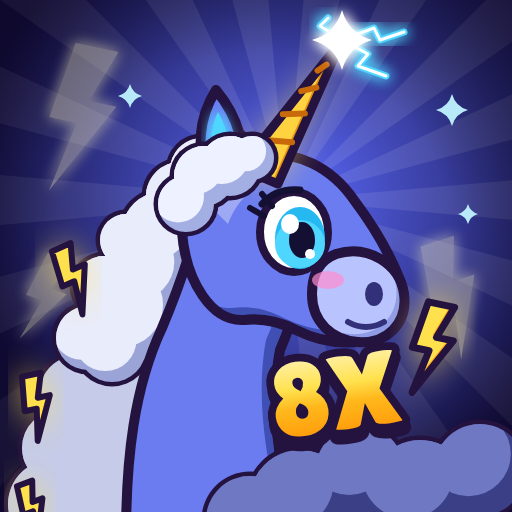
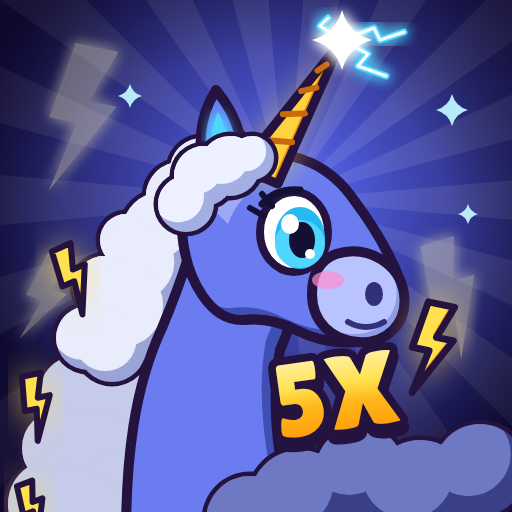
Make the Thunder Unicorn 5x speed instead of 8x
The icon now says 5X, the model's SpeedMultiplier attribute is 5, and both
READMEs say 5x.

Claude-Session: https://claude.ai/code/session_01X2onrxDbHnASbSZM1JFsPP

Changed region(s): [[0.5, 0.6875, 0.7188, 0.875], [0.6875, 0.6562, 0.7812, 0.8125], [0.7812, 0.8125, 0.8125, 0.8438]]

diff --git a/tools/animal-models/thunder_unicorn.py b/tools/animal-models/thunder_unicorn.py
@@ -9,7 +9,7 @@ trails, sparks and a shockwave under every hoof, and every few seconds while it 
 calls a lightning bolt down onto its horn.
 
 The RideAttachment on the RootPart is where the rider sits (on the saddle). The model's attributes Mount = true
-and SpeedMultiplier = 8 are for your mount script.
+and SpeedMultiplier = 5 are for your mount script.
 """
 
 import math
@@ -229,7 +229,7 @@ def thunder_unicorn():
        light("StormLight", SPARK, brightness=1.0, range_=18, pulse=1.8))
     pulse(a, "HoofFL", "HoofFR", "HoofBL", "HoofBR", seconds=0.8)
     pulse(a, "InnerEarL", "InnerEarR", seconds=1.2)
-    extras(a, attrs={"OrbitSpeed": 0.45, "Mount": True, "SpeedMultiplier": 8, "WalkSpeed": 16},
+    extras(a, attrs={"OrbitSpeed": 0.45, "Mount": True, "SpeedMultiplier": 5, "WalkSpeed": 16},
            highlight=(SPARK, C("#bff3ff"), 1.0, 0.6))
     return a
 

diff --git a/tools/icons/build_icons.py b/tools/icons/build_icons.py
@@ -498,7 +498,7 @@ def thunder_unicorn():
     cloud_blob(ic, [(300, 500, 50), (360, 470, 44), (420, 490, 50), (480, 470, 46), (250, 520, 44)],
                light="#6f78c2", dark="#3a3f86", lit=(0.25, 0.35))
     bolt(ic, 420, 300, 92, rot=12, sw=7)
-    label(ic, "8X", 340, 430, 104, rot=-8)
+    label(ic, "5X", 340, 430, 104, rot=-8)
     return ic
 
 

diff --git a/models/thunder-unicorn/README.md b/models/thunder-unicorn/README.md
@@ -18,7 +18,7 @@ beweegt, dus je hoeft niets aan te zetten:
 - **Stilstaan:** hij ademt, kijkt rond, zijn hoorn knettert, de wolken in zijn manen en staart rommelen en de bollen
   draaien rond.
 - **Lopen:** een rustige stap, met vonkjes en een kleine schokgolf onder elke hoef.
-- **Rennen:** hij gaat over in een **galop**. Bij 8x snelheid blijven zijn benen netjes galopperen (niet wazig
+- **Rennen:** hij gaat over in een **galop**. Bij 5x snelheid blijven zijn benen netjes galopperen (niet wazig
   snel), en zijn achterhoeven en staart trekken **bliksemsporen** achter zich aan.
 - **Elke paar seconden stilstaan:** hij **steigert**, er slaat een **bliksemschicht** op zijn hoorn met een flits en
   een regen van vonken, en als zijn voorhoeven neerkomen gaat er een grote schokgolf over de grond.
@@ -40,7 +40,7 @@ beweegt, dus je hoeft niets aan te zetten:
 | Attribuut | Waarde | Wat het doet |
 |---|---|---|
 | `Mount` | true | voor je scripts: dit is een rijdier |
-| `SpeedMultiplier` | 8 | voor je mount-script: 8x snelheid |
+| `SpeedMultiplier` | 5 | voor je mount-script: 5x snelheid |
 | `WalkSpeed` | 16 | de snelheid (studs/s) van een gewone stap. Sneller = galop |
 | `OrbitSpeed` | 0.45 | hoe snel de bollen ronddraaien (0 = stil) |
 | `State` | "" | "Idle", "Walk" of "Run" om een animatie te forceren |

diff --git a/icons/README.md b/icons/README.md
@@ -13,7 +13,7 @@ glanzende kleuren en een zonnestralen-achtergrond. Elk icoon is **512 × 512**, 
 | `LuckyWrangler.png` | Lucky Wrangler | 299 R$ | een klavertjevier in een gouden lasso, met twee dobbelstenen (twee keer gooien) |
 | `VIP.png` | VIP | 249 R$ | een gouden kroon met edelstenen en **VIP** op een lint |
 | `BigBackpack.png` | Big Backpack | 149 R$ | een leren rugzak vol munten en touw, met **+50** |
-| `ThunderUnicorn.png` | Thunder Unicorn | 499 R$ | de Thunder Unicorn met zijn onweerswolk-manen en bliksemhoorn, en **8X** |
+| `ThunderUnicorn.png` | Thunder Unicorn | 499 R$ | de Thunder Unicorn met zijn onweerswolk-manen en bliksemhoorn, en **5X** |
 | `AutoSell.png` | Auto-Sell | 99 R$ | een munt in twee ronddraaiende pijlen, met een **AUTO**-schakelaar die aan staat |
 
 ## Developer products
